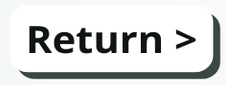
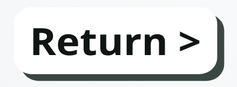
added bypass off

Changed region(s): [[0.1239, 0.3059, 0.7124, 0.6588], [0.0619, 0.1647, 0.9912, 0.9412], [0.7434, 0.3294, 0.8673, 0.5882]]

diff --git a/bypass_on.py b/bypass_on.py
@@ -1,3 +1,6 @@
+import platform
+import subprocess
+import threading
 import tkinter as tk
 from tkinter import Button, PhotoImage, Label, Frame
 from tkinter import ttk
@@ -6,22 +9,23 @@ from PIL import Image, ImageTk
 class BypassOn(Frame):
     def __init__(self, master, width, height, background, manager):
         super().__init__(master)
-        self.root = master
+        # self.root = master
         self.width = width
         self.height = height
         self.background = background
         self.manager = manager
         self.bg_photo = None
 
-        self.root.geometry("%dx%d" % (width, height))
+        # self.root.geometry("%dx%d" % (width, height))
 
         # Load the background image
         bg_image = Image.open(background)
         bg_image = bg_image.resize((width, height), Image.LANCZOS)
         bg_photo = ImageTk.PhotoImage(bg_image)
+        self.bg_photo = bg_photo
 
         # Create a canvas to place the background image
-        self.canvas = tk.Canvas(self.root, width=width, height=height)
+        self.canvas = tk.Canvas(self, width=width, height=height)
         self.canvas.pack(fill="both", expand=True)
         self.canvas.create_image(0, 0, image=bg_photo, anchor="nw")
 
@@ -52,13 +56,13 @@ class BypassOn(Frame):
         self.text_box.pack(fill="both")
         self.text_box.tag_configure("bold", font=("Calibri", 15, "bold"))
 
-        button_image = Image.open("images/return_button.png").resize((280,90))
+        button_image = Image.open("images/continue_button.png").resize((280,90))
         self.button_image = ImageTk.PhotoImage(button_image) 
         self.button = Button(
             self.canvas,
             # text="Continue >",      
             image=self.button_image,    
-            command=self.close_window,
+            command=self.jump_to_bypass_off,
             borderwidth=0,
             highlightthickness=0,
             relief="flat",              
@@ -68,7 +72,118 @@ class BypassOn(Frame):
         )
         self.button.place(x=1580, y=900) 
 
-        self.root.mainloop()
+        self.switch_offstate_bypass()
+        self.ping_one_to_three()
+        self.ping_one_to_two()
+
+        #self.root.mainloop()
+    
+    def jump_to_bypass_off(self):
+        self.manager.show_page("bypass_off")
+
+    def switch_offstate_bypass(self):
+        def offstate_bypass():
+            cmd = f"echo \"111111\" | sudo -S python /home/apt/Documents/test/bypass_control.py"
+            
+            self.after(0, lambda: [
+                self.text_box.insert(tk.END, "Changing bypass pair to bypass mode...\n"),
+                self.text_box.see(tk.END),
+                self.text_box.config(state=tk.DISABLED)  
+            ])
+
+            process = subprocess.Popen(
+                cmd,
+                shell=True,
+                stdout=subprocess.PIPE,
+                stderr=subprocess.PIPE,
+                universal_newlines=True,
+                bufsize=1, 
+                text=True    
+            )
+
+            for line in process.stdout:
+                self.after(0, self.update_text_box, line)
+        
+            process.wait()
+        
+        threading.Thread(target=offstate_bypass, daemon=True).start()
+
+    def ping_one_to_three(self):
+        def run_ping():
+            target = "192.168.1.3"
+            source = "192.168.1.1"
+            count = 4
+            cmd = f"ping -n {count} -I {source} {target}"
+
+            self.after(0, lambda: [
+                self.text_box.insert(tk.END, "Pinging PNSR-5001 on orange wire...\n"),
+                self.text_box.see(tk.END),
+                self.text_box.config(state=tk.DISABLED)  
+            ])
+            
+            process = subprocess.Popen(
+                cmd,
+                shell=True,
+                stdout=subprocess.PIPE,
+                stderr=subprocess.PIPE,
+                universal_newlines=True,
+                bufsize=1, 
+                text=True    
+            )
+
+            for line in process.stdout:
+                self.after(0, self.update_text_box, line)
+        
+            process.wait()
+            
+            self.after(0, lambda: [
+                self.text_box.insert(tk.END, "\n[Ping Completed]\n"),
+                self.text_box.see(tk.END),
+                self.text_box.config(state=tk.DISABLED)  
+            ])
+        
+        threading.Thread(target=run_ping, daemon=True).start()
+
+    def ping_one_to_two(self):
+        def run_ping():
+            target = "192.168.1.2"
+            source = "192.168.1.1"
+            count = 4
+            cmd = f"ping -n {count} -I {source} {target}"
+
+            self.after(0, lambda: [
+                self.text_box.insert(tk.END, "Pinging PNSR-5001 on orange wire...\n"),
+                self.text_box.see(tk.END),
+                self.text_box.config(state=tk.DISABLED)  
+            ])
+            
+            process = subprocess.Popen(
+                cmd,
+                shell=True,
+                stdout=subprocess.PIPE,
+                stderr=subprocess.PIPE,
+                universal_newlines=True,
+                bufsize=1, 
+                text=True    
+            )
+
+            for line in process.stdout:
+                self.after(0, self.update_text_box, line)
+        
+            process.wait()
+            
+            self.after(0, lambda: [
+                self.text_box.insert(tk.END, "\n[Ping Completed]\n"),
+                self.text_box.see(tk.END),
+                self.text_box.config(state=tk.DISABLED)  
+            ])
+        
+        threading.Thread(target=run_ping, daemon=True).start()
+
+    def update_text_box(self, text):
+        self.text_box.config(state=tk.NORMAL)  
+        self.text_box.insert(tk.END, text)
+        self.text_box.see(tk.END)
 
     def close_window(self):
         self.master.destroy()

diff --git a/bypass_off.py b/bypass_off.py
@@ -6,8 +6,7 @@ from tkinter import Button, PhotoImage, Label, Frame
 from tkinter import ttk
 from PIL import Image, ImageTk
 
-
-class BypassOpen(Frame):
+class BypassOff(Frame):
     def __init__(self, master, width, height, background, manager):
         super().__init__(master)
         # self.root = master
@@ -57,13 +56,13 @@ class BypassOpen(Frame):
         self.text_box.pack(fill="both")
         self.text_box.tag_configure("bold", font=("Calibri", 15, "bold"))
 
-        button_image = Image.open("images/continue_button.png").resize((280,90))
+        button_image = Image.open("images/return_button.png").resize((237,87))
         self.button_image = ImageTk.PhotoImage(button_image) 
         self.button = Button(
             self.canvas,
             # text="Continue >",      
             image=self.button_image,    
-            command=self.jump_to_bypass_on,
+            command=self.close_window,
             borderwidth=0,
             highlightthickness=0,
             relief="flat",              
@@ -71,16 +70,12 @@ class BypassOpen(Frame):
             fg="black",                
             font=("Arial", 12)         
         )
-        self.button.place(x=1580, y=900) 
+        self.button.place(x=1600, y=900) 
 
-        self.switch_open()
-        self.ping_one_to_three()
+        #self.root.mainloop()
 
-    def jump_to_bypass_on(self):
-        self.manager.show_page("bypass_on")
-    
-    def switch_open(self):
-        def open():
+    def switch_offstate_bypass(self):
+        def offstate_bypass():
             cmd = f"echo \"111111\" | sudo -S python /home/apt/Documents/test/bypass_control.py"
             
             self.after(0, lambda: [
@@ -106,43 +101,5 @@ class BypassOpen(Frame):
         
         threading.Thread(target=open, daemon=True).start()
 
-    def ping_one_to_three(self):
-        def run_ping():
-            target = "192.168.1.3"
-            source = "192.168.1.1"
-            count = 4
-            cmd = f"ping -n {count} -I {source} {target}"
-
-            self.after(0, lambda: [
-                self.text_box.insert(tk.END, "Pinging PNSR-5001 on orange wire...\n"),
-                self.text_box.see(tk.END),
-                self.text_box.config(state=tk.DISABLED)  
-            ])
-            
-            process = subprocess.Popen(
-                cmd,
-                shell=True,
-                stdout=subprocess.PIPE,
-                stderr=subprocess.PIPE,
-                universal_newlines=True,
-                bufsize=1, 
-                text=True    
-            )
-
-            for line in process.stdout:
-                self.after(0, self.update_text_box, line)
-        
-            process.wait()
-            
-            self.after(0, lambda: [
-                self.text_box.insert(tk.END, "\n[Ping Completed]\n"),
-                self.text_box.see(tk.END),
-                self.text_box.config(state=tk.DISABLED)  
-            ])
-        
-        threading.Thread(target=run_ping, daemon=True).start()
-
-    def update_text_box(self, text):
-        self.text_box.config(state=tk.NORMAL)  
-        self.text_box.insert(tk.END, text)
-        self.text_box.see(tk.END)
+    def close_window(self):
+        self.master.destroy()

diff --git a/bypass_manager.py b/bypass_manager.py
@@ -6,6 +6,7 @@ from bypass_normal import BypassNormal
 from bypass_open import BypassOpen
 from bypass_on import BypassOn
 from bypass_main import BypassMain
+from bypass_off import BypassOff
 
 class BypassManager(Frame):
     def __init__(self, master):
@@ -36,6 +37,12 @@ class BypassManager(Frame):
             "bypass_on": {
                 "class": BypassOn,
                 "bg": "images/bypass4.png",
+                "width": self.width,
+                "height": self.height,
+            },
+            "bypass_off": {
+                "class": BypassOff,
+                "bg": "images/bypass5.png",
                 "width": self.width,
                 "height": self.height,
             }

diff --git a/bypass_normal.py b/bypass_normal.py
@@ -117,8 +117,9 @@ class BypassNormal(Frame):
     def ping_one_to_three(self):
         def run_ping():
             target = "192.168.1.3"
+            source = "192.168.1.1"
             count = 4
-            cmd = f"ping -n {count} {target}"
+            cmd = f"ping -n {count} -I {source} {target}"
 
             self.after(0, lambda: [
                 self.text_box.insert(tk.END, "Pinging PNSR-5001 on orange wire...\n"),
